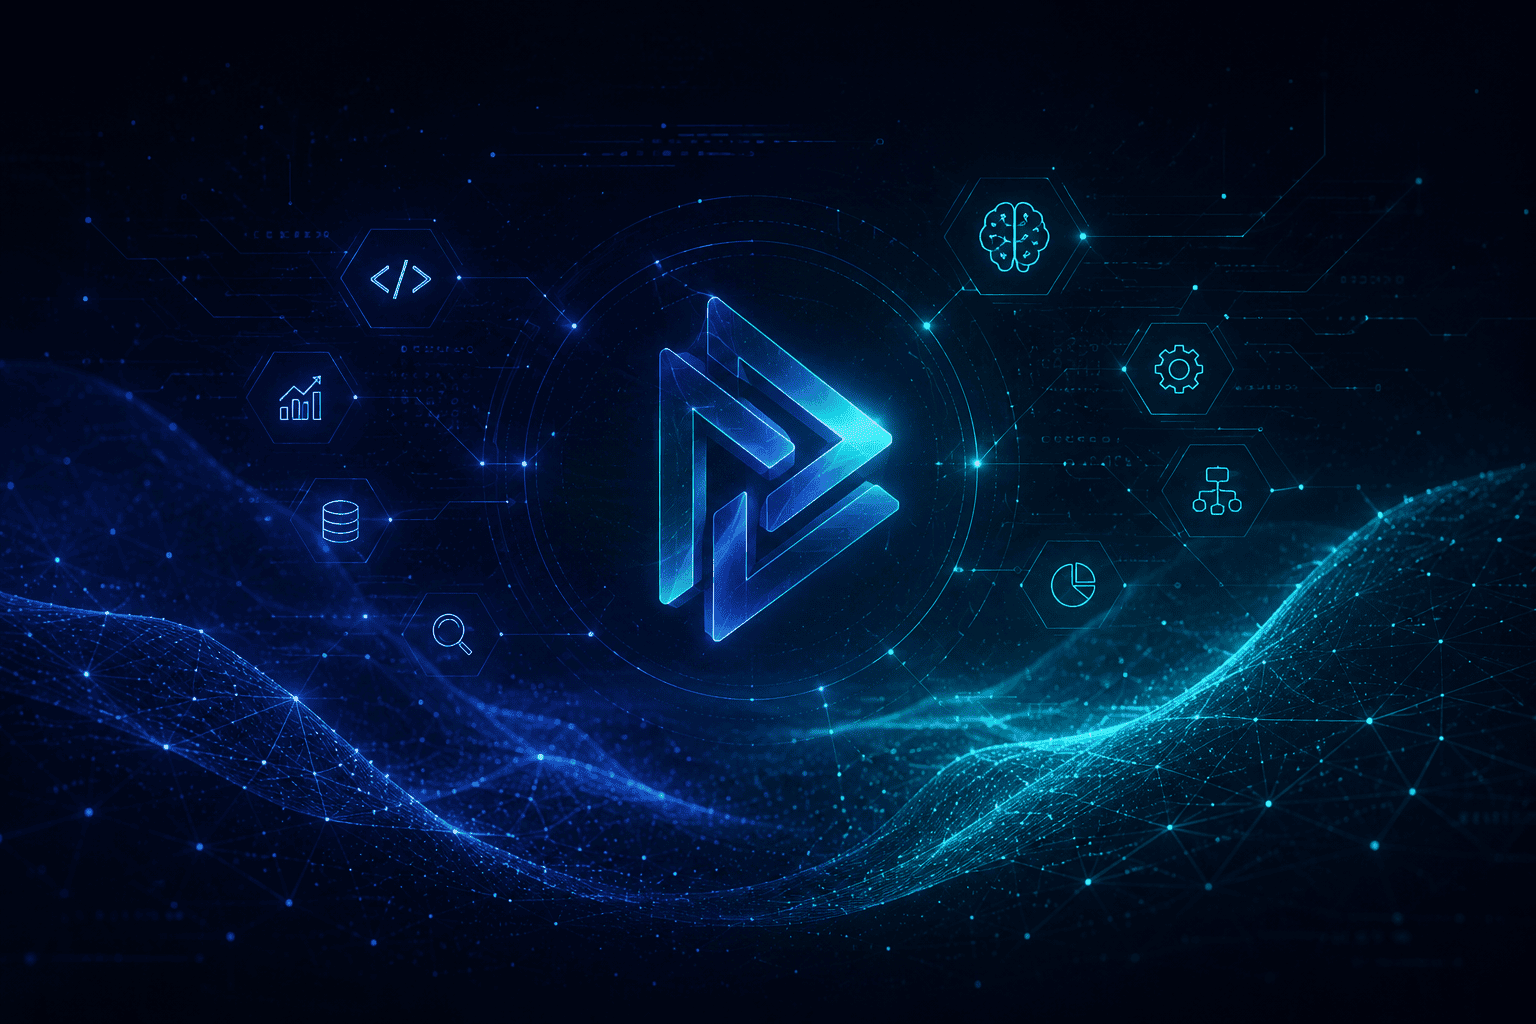
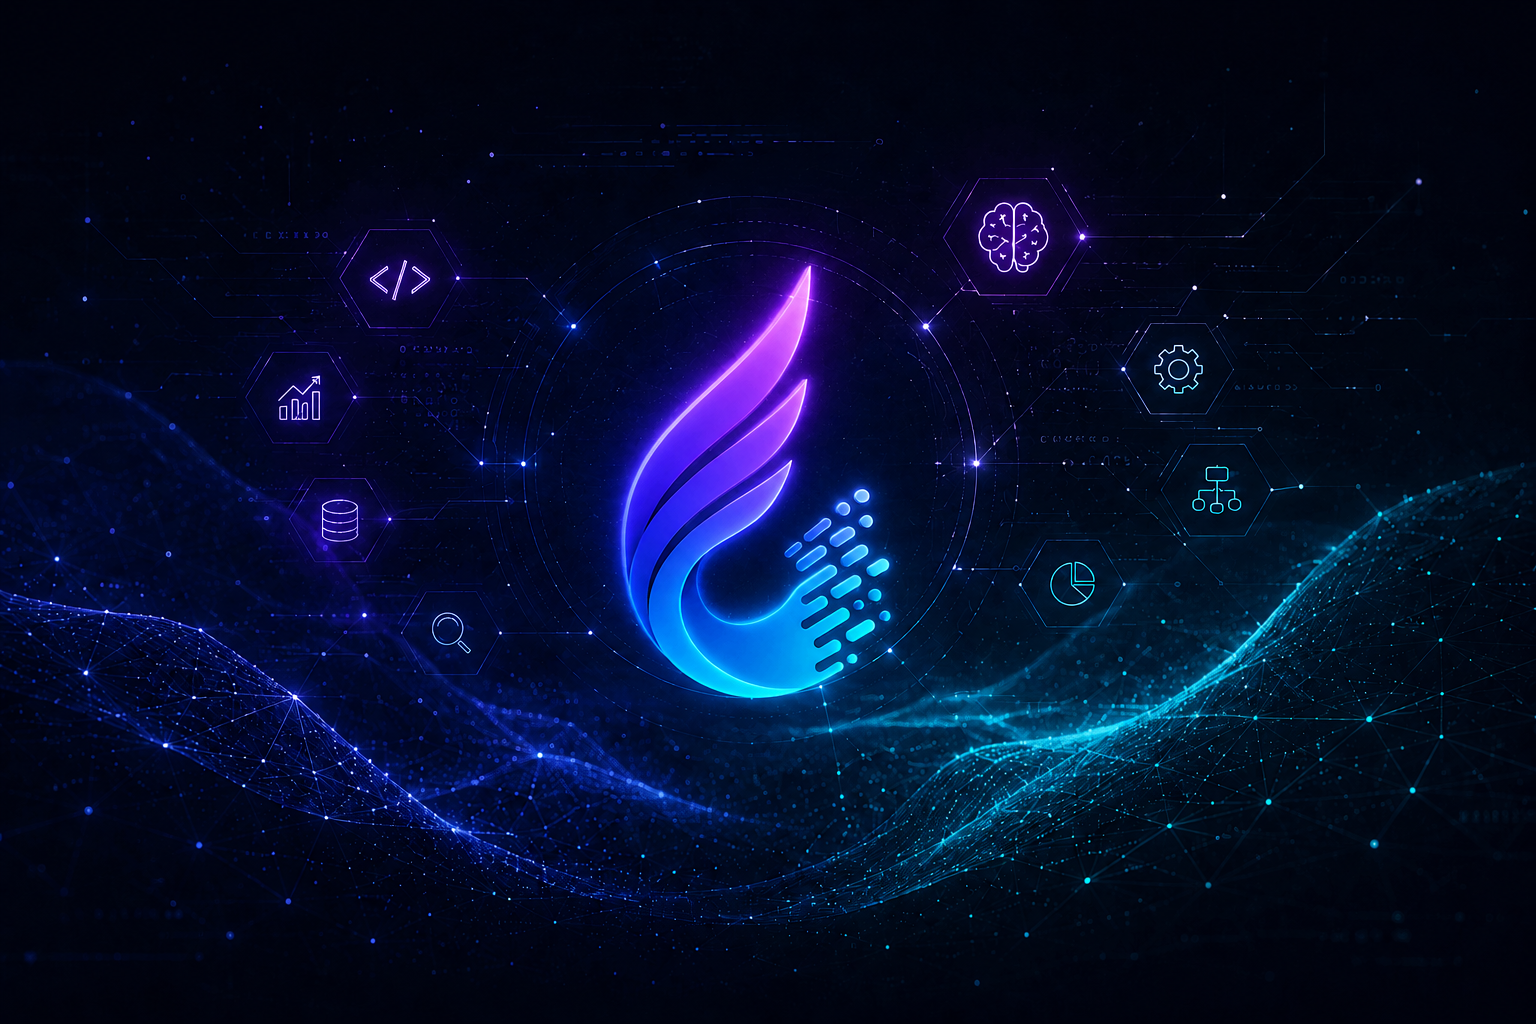
improved site

diff --git a/templates/base.html b/templates/base.html
@@ -6,18 +6,80 @@
 <head>
 
 
-<meta charset="UTF-8">
-<meta name="viewport" content="width=device-width, initial-scale=1.0">
+    <meta charset="UTF-8">
+    <meta name="viewport" content="width=device-width, initial-scale=1.0">
 
-<title>
-    {% block title %}
-        zafium | AI, Data, Design & Automation Solutions
-    {% endblock %}
-</title>
+    <title>
+        {% block title %}
+            Zafium | AI, Data, Design & Automation Solutions
+        {% endblock %}
+    </title>
 
-<meta name="description" content="{% block description %}zafium - Design, Data, AI and Automation Solutions{% endblock %}">
+    <meta name="description" content="{% block description %}Zafium - Design, Data, AI and Automation Solutions{% endblock %}">
 
-<link rel="stylesheet" href="{% static 'css/base.css' %}">
+    <link rel="stylesheet" href="{% static 'css/base.css' %}">
+
+    <link rel="icon"
+        href="{% static 'favicon.ico' %}"
+        sizes="any">
+
+    <link rel="icon"
+        type="image/svg+xml"
+        href="{% static 'favicon.svg' %}">
+
+    <link rel="icon"
+        type="image/png"
+        sizes="96x96"
+        href="{% static 'favicon-96x96.png' %}">
+
+    <link rel="apple-touch-icon"
+        href="{% static 'web-app-manifest-192x192.png' %}">
+
+    <link rel="manifest"
+        href="{% static 'site.webmanifest' %}">
+
+    <meta name="keywords"
+      content="AI, Machine Learning, Web Development, Graphic Design, Automation, Data Analysis, Web Scraping, Research, Django, Python">
+
+    <meta name="author" content="Zafium">
+
+    <meta name="robots" content="index, follow">
+
+    <meta name="theme-color" content="#6366f1">
+
+    <link rel="canonical" href="https://www.zafium.com/">
+
+    <link rel="icon" href="{% static 'favicon.ico' %}" sizes="any">
+    <link rel="icon" type="image/svg+xml" href="{% static 'favicon.svg' %}">
+    <link rel="icon" type="image/png" sizes="96x96" href="{% static 'favicon-96x96.png' %}">
+    <link rel="manifest" href="{% static 'site.webmanifest' %}">
+
+    <meta property="og:type" content="website">
+    <meta property="og:title" content="Zafium">
+    <meta property="og:description" content="AI, Web Development, Graphic Design, Automation, Research and Data Solutions.">
+    <meta property="og:url" content="https://www.zafium.com">
+    <meta property="og:image" content="https://www.zafium.com/static/images/og-image.png">
+
+    <meta name="twitter:card" content="summary">
+    <meta name="twitter:title" content="Zafium">
+    <meta name="twitter:description" content="AI, Web Development, Graphic Design, Automation, Research and Data Solutions.">
+    <meta name="twitter:image" content="https://zafium.com/static/images/og-image.png">
+
+    <script type="application/ld+json">
+        {
+        "@context":"https://schema.org",
+        "@type":"Organization",
+        "name":"Zafium",
+        "url":"https://www.zafium.com",
+        "logo":"https://www.zafium.com/static/images/zafium_transparent.png",
+        "description":"AI, Web Development, Graphic Design, Automation, Research and Data Solutions.",
+        "sameAs":[
+            "https://linkedin.com/company/zafium",
+            "https://github.com/zafium",
+            "https://facebook.com/zafium"
+        ]
+        }
+    </script>
 
 {% block extra_css %}{% endblock %}
 

diff --git a/static/css/navbar.css b/static/css/navbar.css
@@ -2,6 +2,42 @@
    NAV DROPDOWN
 ========================= */
 
+.logo {
+    display: inline-flex;
+    align-items: center;      /* Vertically centers logo and text */
+    gap: 0px;
+}
+
+.logo img {
+    width: 50px;
+    height: auto;
+}
+
+.logo-text{
+    margin-bottom: -1px;
+    font-size:2rem;
+    font-weight:700;
+    font-family:'Space Grotesk', sans-serif;
+    letter-spacing:2px;
+    align-items: center;
+    margin: 0;
+    padding: 0;
+    line-height: 1;
+    margin-top: 5px;
+
+    background:linear-gradient(
+        90deg,
+        #6D5EF9,
+        #38BDF8,
+        #22D3EE
+    );
+
+    -webkit-background-clip:text;
+    -webkit-text-fill-color:transparent;
+
+    text-transform:uppercase;
+}
+
 .dropdown {
     position: relative;
 }

diff --git a/templates/includes/navbar.html b/templates/includes/navbar.html
@@ -3,13 +3,19 @@
 {% block extra_css %}
 <link rel="stylesheet" href="https://cdn.jsdelivr.net/npm/remixicon/fonts/remixicon.css"/>
 <link rel="stylesheet" href="{% static 'css/navbar.css' %}"/>
+<link href="https://fonts.googleapis.com/css2?family=Space+Grotesk:wght@400;500;700&display=swap" rel="stylesheet">
 {% endblock %}
 
 <header class="site-header">
 
     <div class="container navbar">
 
-        <a href="/" class="logo">Zafium</a>
+        <a href="/" class="logo">
+            <img src="{% static 'images/zafium_transparent.png' %}"></img>
+            <span class="logo-text">
+                Zafium
+            </span>
+        </a>
 
         <!-- HAMBURGER BUTTON -->
         <button class="menu-toggle" id="menuToggle" aria-label="Toggle menu">

diff --git a/static/css/base.css b/static/css/base.css
@@ -494,7 +494,12 @@ a {
 .gradient-text {
     display: inline-block !important;
 
-    background: linear-gradient(90deg, #2563EB, #06B6D4);
+    background:linear-gradient(
+        90deg,
+        #6D5EF9,
+        #38BDF8,
+        #22D3EE
+    );
     -webkit-background-clip: text;
     background-clip: text;
 

diff --git a/templates/home.html b/templates/home.html
@@ -57,7 +57,7 @@
 
 </section>
 
-<!-- SERVICES -->
+<!-- SERVICES 
 
 <section id="services">
 
@@ -194,6 +194,7 @@
 
 
 </section>
+-->
 
 <!-- PRODUCTS -->
 

diff --git a/core/sitemap.py b/core/sitemap.py
@@ -1,0 +1,44 @@
+from django.contrib.sitemaps import Sitemap
+from django.urls import reverse
+
+
+class PortfolioSitemap(Sitemap):
+    protocol = "https"
+    priority = 0.8
+    changefreq = "weekly"
+
+    def items(self):
+        return [
+            "ai",
+            "web-development",
+            "Design",
+            "automation",
+            "research",
+            'data-scraping',
+            'video',
+            'training',
+        ]
+
+    def location(self, item):
+        return reverse(
+            "core:portfolio_category",
+            kwargs={"category": item},
+        )
+
+class StaticViewSitemap(Sitemap):
+
+    priority = 0.8
+    changefreq = "weekly"
+
+    def items(self):
+        return [
+            'core:home',
+            'core:about',
+            'core:services',
+            'core:order',
+            'core:layerforge',
+            'core:autolytics'
+        ]
+
+    def location(self, item):
+        return reverse(item)

diff --git a/zafium/urls.py b/zafium/urls.py
@@ -19,9 +19,26 @@ from django.conf import settings
 from django.conf.urls.static import static
 from django.urls import path, include
 
+from core.sitemap import (
+    StaticViewSitemap,
+    PortfolioSitemap,
+)
+from django.contrib.sitemaps.views import sitemap
+
+sitemaps = {
+    "static": StaticViewSitemap,
+    "portfolio": PortfolioSitemap,
+}
+
 urlpatterns = [
     path('admin/', admin.site.urls),
     path("", include("core.urls")),
+    path(
+        "sitemap.xml",
+        sitemap,
+        {"sitemaps": sitemaps},
+        name="django.contrib.sitemaps.views.sitemap",
+    ),
 ]
 
 if settings.DEBUG:

diff --git a/core/views.py b/core/views.py
@@ -94,6 +94,13 @@ def portfolio_detail(request, category, slug):
         "total_projects": total_projects
     })
 
+def robots_txt(request):
+    return render(
+        request,
+        "robots.txt",
+        content_type="text/plain"
+    )
+
 # ____________________________________________________________________________________________________________
 
 def success_page(request):

diff --git a/zafium/settings.py b/zafium/settings.py
@@ -37,7 +37,8 @@ INSTALLED_APPS = [
     'django.contrib.sessions',
     'django.contrib.messages',
     'django.contrib.staticfiles',
-    'core'
+    'core',
+    'django.contrib.sitemaps',
 ]
 
 MIDDLEWARE = [

diff --git a/core/urls.py b/core/urls.py
@@ -67,5 +67,7 @@ urlpatterns = [
     ),
 
     path("success/", success_page, name="success_page"),
+
+    path("robots.txt", robots_txt),
     
 ]